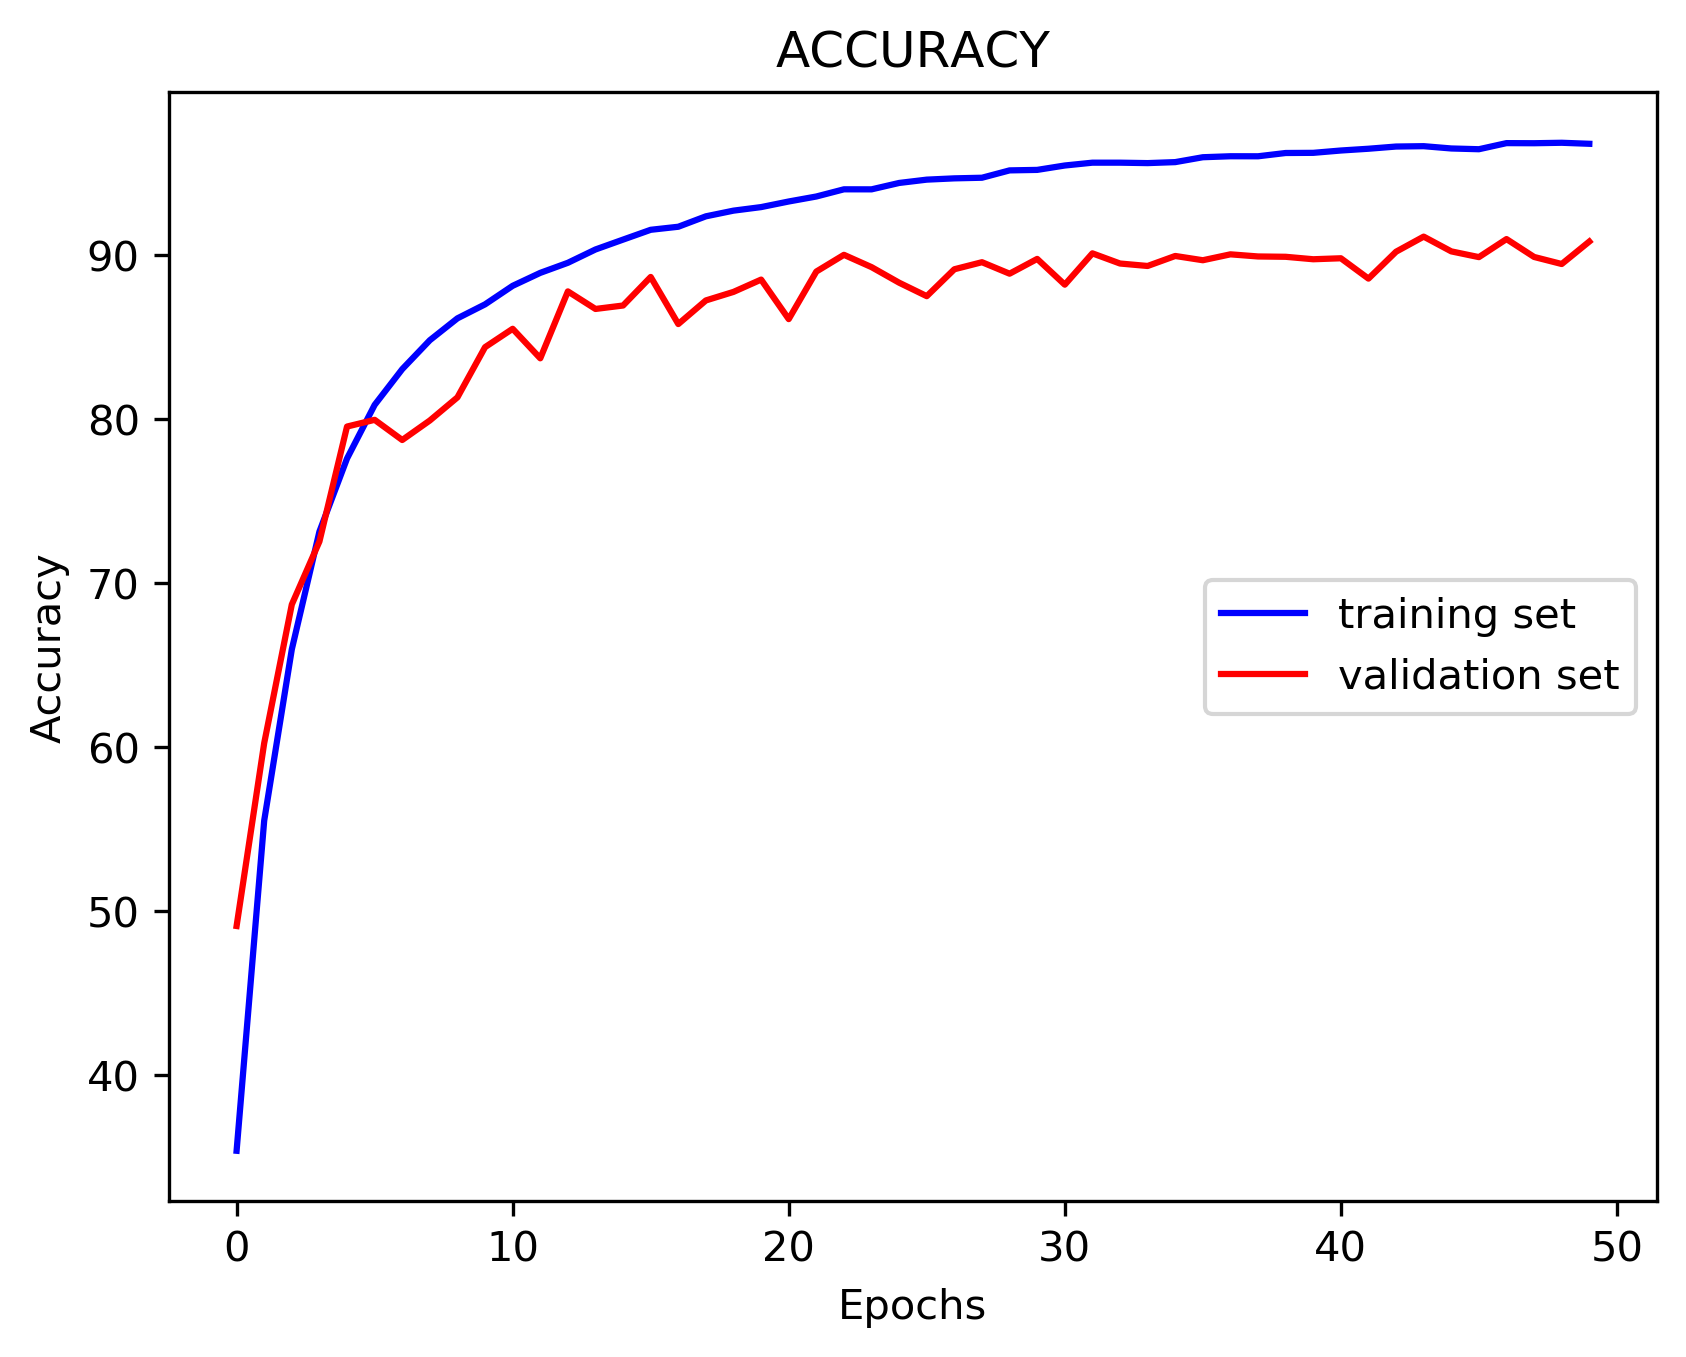
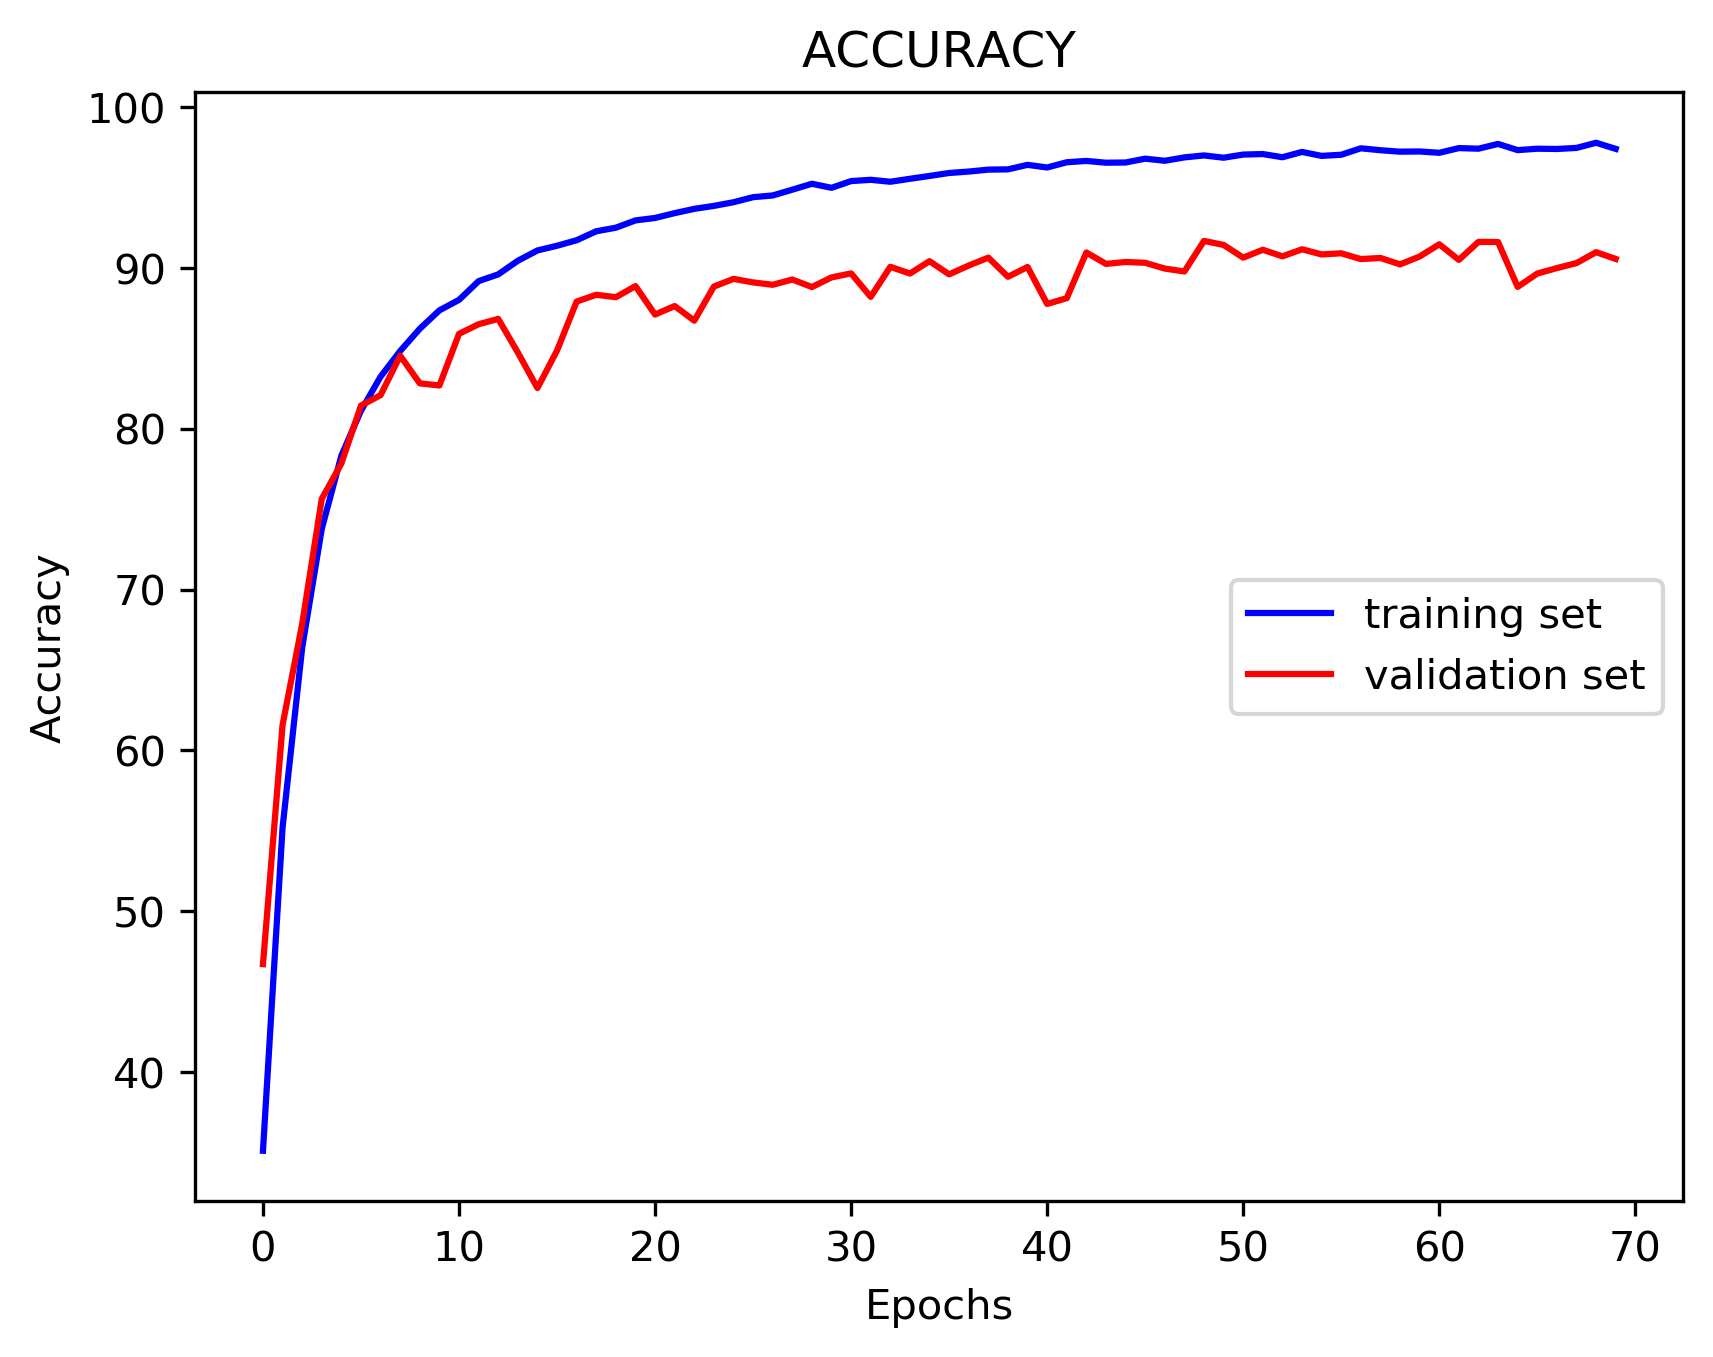
Update

diff --git a/train.py b/train.py
@@ -61,8 +61,8 @@ def show_data(image):
 
 
 #Need to import model a model
-#model = ResNet50()
-model = ResNet34()
+model = ResNet50()
+#model = ResNet34()
 #model = CNN_batch()
 #Pass model to GPU
 model = model.to(device)
@@ -144,13 +144,13 @@ def train(epochs):
 			model.eval()
 			if not os.path.isdir('checkpoint'):
 			    os.mkdir('checkpoint')
-			torch.save(model.state_dict(), './checkpoint/resnet34.pth')
+			torch.save(model.state_dict(), './checkpoint/resnet50.pth')
 
 	print("TRAINING IS FINISHED !!!")
 	return dict
 
 #Start training
-results = train(50)
+results = train(70)
 
 
 plt.figure(1)
@@ -160,7 +160,7 @@ plt.title("LOSS")
 plt.xlabel("Epochs")
 plt.ylabel("Loss")
 plt.legend(['training set', 'validation set'], loc='center right')
-plt.savefig('Loss_ResNet34.png', dpi=300, bbox_inches='tight')
+plt.savefig('Loss_ResNet50.png', dpi=300, bbox_inches='tight')
 
 plt.figure(2)
 plt.plot(results['Train Acc'], 'b', label = 'training accuracy')
@@ -169,7 +169,7 @@ plt.title("ACCURACY")
 plt.xlabel("Epochs")
 plt.ylabel("Accuracy")
 plt.legend(['training set', 'validation set'], loc='center right')
-plt.savefig('Accuracy_ResNet34.png', dpi=300, bbox_inches='tight')
+plt.savefig('Accuracy_ResNet50.png', dpi=300, bbox_inches='tight')
 plt.show()
 plt.close()
 

diff --git a/test.py b/test.py
@@ -48,12 +48,12 @@ def show_data(image):
 	plt.show()
 
 
-#model = ResNet50()
-model = ResNet34()
+model = ResNet50()
+#model = ResNet34()
 model = model.to(device)
 print("Upload the model ...")
 assert os.path.isdir('checkpoint'), 'Error: no checkpoint directory found!'
-model.load_state_dict(torch.load('./checkpoint/resnet34.pth'))
+model.load_state_dict(torch.load('./checkpoint/resnet50.pth'))
 model.eval()
 
 
@@ -80,6 +80,7 @@ def test():
 			x, y = x.to(device), y.to(device)
 			model.eval()
 			yhat = model(x)
+			yhat = yhat.reshape(-1, 10)
 			a1, a5 = accuracy(yhat, y, topk=(1,5))
 			accuracy1 += a1 
 			accuracy5 += a5
@@ -89,9 +90,9 @@ def test():
 
 acc1, acc5 = test()
 
-print("-------------------------")
-print("|       ResNet34       |")
-print("-------------------------")
+print("--------------------------")
+print("|       ResNet50         |")
+print("--------------------------")
 print("| TOP1 Accuracy:", format(100*acc1, '.4f'), "|")
 print("| TOP5 Accuracy:", format(100*acc5, '.4f'), "|")
-print("-------------------------\n")
+print("--------------------------\n")
